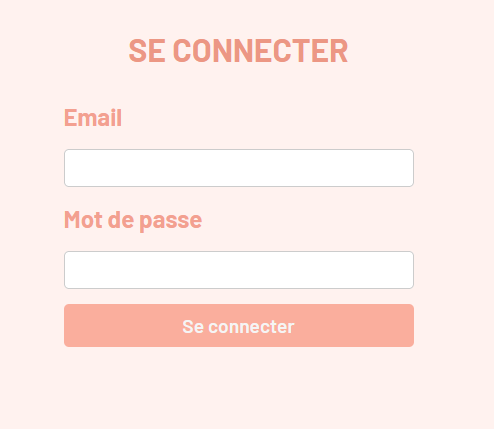
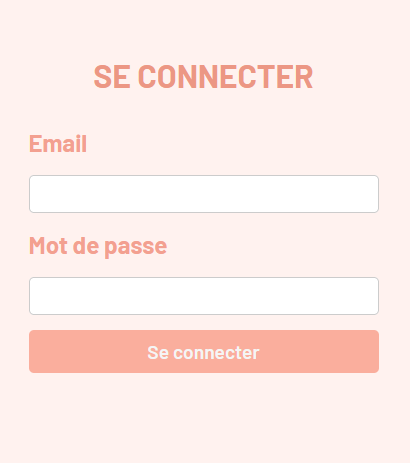
Mise a jour de la présentation

diff --git a/index.html b/index.html
@@ -21,65 +21,47 @@
 
             <!-- INTRODUCTION -->
             <section>
-                <h1>Présentation du Projet</h1>
+                <h2>Douceur de lune</h2>
                 <img class="img-presentation" src="img\Sans titre.png" alt="">
                 <aside class="notes">
+                    Intro :<br>
                     Devenir mère, ou être une mère récente, représente un changement majeur dans la vie d'une femme. En plus d'être une femme, on devient également une mère. Ce rôle s'accompagne de transformations physiques et mentales, de doutes et de peurs, mais aussi d'un sentiment de bonheur, de satisfaction et d'amour. Ces changements peuvent créer des tourbillons émotionnels difficiles à gérer, ce qui est tout à fait normal.
                     C'est dans ce contexte que ce projet a vu le jour : la création d'un site web destiné aux jeunes parents, principalement les mamans, mais pas seulement. 
                     Le site propose des cours de relaxation, de portage, des conseils et du bien-être, le tout dans un design moderne et accessible.
-                    Ce site a été créé principalement pour valider ma formation DWWM. Cependant, il a également pour objectif d'être utilisé par ma sœur dans le cadre de son activité professionnelle. Actuellement, elle utilise un site réalisé en CMS, mais nous avons convenu qu'un site "fait main" serait plus avantageux à bien des égards.
-                    C'est donc avec ces deux objectifs en tête que j'ai décidé de créer un site sur ce thème, qui répondrait aux exigences du REAC 1 tout en répondant aux besoins de ma sœur.
-                    J'ai beaucoup discuté avec elle pour comprendre ses besoins, le public visé, les habitudes des utilisateurs sur son site actuel, etc. Mon but était d'adapter au mieux ce projet pour elle, comme je le ferais pour un véritable client.
                 </aside>
             </section>  
 
             <!-- CONTEXTE -->
             <section>
-                <h2>Contexte</h2>
-                <img class="img-presentation" src="img\Sans titre.png" alt="">
-                <p>Le projet que j'ai développé est une application web qui vise à proposer des cours pour les jeunes parents, en particulier les mères, qu'elles attendent un enfant ou qu'elles soient mères depuis quelques mois.</p>
+                <h2>Pourquoi ce projet ?</h2>
+                <img class="img-presentation" src="img/questionnement.webp" alt="">
                 <aside class="notes">
-                    L'idée de ce projet est né de manière assez spontanée. Ma sœur possèdant un site web pour son activité professionnelle, avait créé son site via un CMS.
-                    Ayant toujours eu l'envie de l'améliorer et de le refaire entièrement par moi-même, j'ai décidé de transformer cette idée en projet concret. 
-                    J'ai ainsi choisi de développer un site que ma sœur pourrait également utiliser.
-                    Nous avons donc échangé régulièrement afin que je puisse cerner ses besoins et ses attentes, comme je l'aurais fait avec un véritable client.
-                    Par conséquent, j'ai également dû concevoir une interface d'administration. Mon objectif était de la rendre la plus simple possible pour permettre au client de réaliser lui-même les modifications nécessaires.
-                    En ce qui concerne le choix technologique, j'ai opté pour JavaScript pour le développement du calendrier. C'était une décision guidée par mon intérêt pour ce langage que j'ai cherché à apprendre en parallèle de la formation. De plus, je rencontrais des difficultés à obtenir ce que je voulais avec FullCalendar. 
-                    Ce défi s'est finalement révélé bénéfique et m'a poussé à me dépasser.
+                    Projet principalement pour l'examen DWWM mais aussi ma soeur (infirmière libérale, neo nat, réa bébé)<br>
+                    La cible est principalement les jeunes mères, mais aussi en couple ( même les pères seuls qui ont besoin de conseils )<br>
+                    Nous avons donc échangé régulièrement afin que je puisse cerner ses besoins et ses attentes, comme je l'aurais fait avec un véritable client.<br>
                     Pour conclure, ce projet a été une opportunité pour moi d'appliquer mes nouvelles compétences en développement et de me confronter à des problématiques réelles. Cela m'a permis de confirmer mon intérêt pour ce domaine et de renforcer ma détermination à poursuivre dans cette voie.
                 </aside>
             </section>
 
             <!-- TECHNO + LANGAGE -->
             <section>
-                <h2 class="test">Technologies Utilisées</h2>
-                <p>Pour développer ce projet, j'ai utilisé plusieurs technologies :</p>
-                <ul>
-                    <li class="fragment img"><img src="img\Framework-Symfony-removebg-preview.png" alt="">SYMFONY comme framework de développement</li>
-                        <aside class="notes">Note pour SYMFONY</aside>
-                    <li class="fragment img"><img src="img\npm-composer-cover-removebg-preview.png" alt="">COMPOSER et NPM comme gestionnaire de dépendance</li>
-                        <aside class="notes">Note pour COMPOSER</aside>
-                    <li class="fragment img minus-margin"><img src="img\1_MGcLJS1ZvMFcBA94PXn16Q.png" alt="">VSCODE comme éditeur de code</li>
-                        <aside class="notes">Note pour VSCODE</aside>
-            </section>
-
-            <section class="langage">
-                <h2>Ainsi que plusieurs langages utilisés</h2>
-                <ul>
-                    <li class="fragment img"><img src="img\php_mysql-removebg-preview.png" alt="">PHP - SQL pour la programmation côté serveur et intéragir avec la base de donnée</li>
-                        <aside class="notes">Note pour PHP - SQL</aside>
-                    <li class="fragment img minus-margin2"><img src="img\css3-html5-removebg-preview.png" alt="">HTML - CSS pour gérer la mise en page</li>
-                        <aside class="notes">Note pour HTML - CSS</aside>
-                    <li class="fragment img"><img src="img\JavaScript-Logo-removebg-preview.png" alt="">JavaScript pour la gestion de mon calendrier et rendre certaines pages plus dynamiques</li>
-                     <aside class="notes">Note pour JavaScript</aside>
-                </ul>
+                <h3 class="test">Technologies et langages utilisées</h3>
+                <!-- <p>Pour développer ce projet, j'ai utilisé plusieurs technologies :</p> -->
+                <div>
+                    <p class="fragment img"><img src="img/Framework-Symfony-removebg-preview.png" alt=""></p>
+                        <aside class="notes">Note pour SYMFONY <br> PHP - SQL pour la programmation côté serveur et intéragir avec la base de donnée</aside>
+                    <p class="fragment img"><img src="img/npm-composer-cover-removebg-preview.png" alt=""></p>
+                        <aside class="notes">Note pour COMPOSER <br> NPM</aside>
+                    <p class="fragment img minus-margin"><img src="img/html5-logo-best-web-design-psd-html-cms-development-ecommerce-6.png"></p>
+                        <aside class="notes">Note pour HTML <br> CSS <br> JS</aside>
+                </div>
             </section>
 
             <!-- ARCHITECTURE -->
             <section>
-                <h2>Architecture de l'Application</h2>
-                <img src="img/MVC.png" alt="">
-                <p>Le modèle MVC, ou Model-View-Controller, est un motif d'architecture logicielle utilisé pour développer des applications web. Il divise une application en trois composants connectés entre eux.</p>
+                <h3>Architecture de l'Application</h3>
+                <img class="img-mvc" src="img/MVC.png" alt="">
+                <aside class="notes">Le modèle MVC, ou Model-View-Controller, est un motif d'architecture logicielle utilisé pour développer des applications web. Il divise une application en trois composants connectés entre eux.</aside>
                 <ul>
                     <li class="fragment">Contrôleur (Controller)</li>
                         <aside class="notes"><strong>Le contrôleur</strong> agit comme un intermédiaire entre le modèle et la vue. Il traite les entrées de l'utilisateur, interagit avec le modèle pour récupérer ou stocker des données, et met à jour la vue en conséquence. Dans une application web, le contrôleur est généralement responsable de gérer les requêtes HTTP, de manipuler les données du formulaire, et de renvoyer les réponses HTTP. <br><br> </aside>
@@ -92,16 +74,16 @@
           
             <!-- FONCTIONNALTES -->
             <section>
-                <h2>Fonctionnalités Clés</h2>
+                <h3>Fonctionnalités Clés</h3>
                 <p>Un système d'inscription et de connexion</p>
-                <ul>
-                    <li class="fragment"><img src="img/connexion.png" alt="">Inscription</li>
-                    <li class="fragment"><img src="img/subscription.png" alt="">Subscription</li>
-                </ul>
+                <div>
+                    <p class="fragment"><img src="img/subscription.png" alt=""> <img src="img/connexion.png" alt=""></p>
+                   
+                </div>
             </section>
 
             <section>
-                <h2>Fonctionnalités Clés</h2>
+                <h3>Fonctionnalités Clés</h3>
                 <p>La possibilité de supprimer ou modifier son profil</p>
                 <ul>
                     <li class="fragment"><img src="img/subscription.png" alt="">modification/supression dans le profil</li>
@@ -109,42 +91,42 @@
             </section>
 
             <section>
-                <h2>Fonctionnalités Clés</h2>
+                <h3>Fonctionnalités Clés</h3>
                 <p>Un calendrier de réservation</p>
                         <ul>
                             <li class="fragment"><img src="img/calendrier-jour.png" alt="">Section Mois/Jours</li>
-                            <li class="fragment"><img src="img/calendrier-horaires.png" alt="">Section horaires</li>
-                            <li class="fragment"><img src="img/calendrier-reservation-boutton.png" alt="">Section réservation</li>
+                            <li class="fragment"><img src="img/calendrier-horaires.png" alt="">Section Horaires</li>
+                            <li class="fragment"><img src="img/calendrier-reservation-boutton.png" alt="">Section Réservation</li>
                         </ul>
             </section>
 
             <section>
-                <h2>Fonctionnalités Clés</h2>
-                <p>La possibilité de payé via Stripe</p>
+                <h3>Fonctionnalités Clés</h3>
+                <p>La possibilité de payer via Stripe</p>
                 <li class=""><img src="img/Stripe.png" alt="">Méthode de payment via Stripe</li>
             </section>
 
             <section>
-                <h2>Fonctionnalités Clés</h2>
+                <h3>Fonctionnalités Clés</h3>
                 <p>Une interface admin</p>
                 <li class=""><img src="img/admin-dashboard.png" alt="">Interface administrateur via EasyAdmin</li>
             </section>
             
             <!-- DEMO -->
             <section>
-                <h2>Démo</h2>
+                <h3>Démo</h3>
                 <p>Maintenant que je vous ai présenté le projet en détail, voici une démonstration de son utilisation en situation réel.</p>
             </section>
 
             <!-- DEFIS ET SOLUTIONS -->
             <section>
-                <h2>Challenges et Solutions</h2>
+                <h3>Challenges et Solutions</h3>
                 <p>Calendrier imaginé en FullCalendar et transformé en full JavaScript</p>
             </section>
 
             <!-- AMELIORATIONS -->
             <section>
-                <h2>Améliorations Futures</h2>
+                <h3>Améliorations Futures</h3>
                 <p>Parler des améliorations ou des fonctionnalités que je prévoie d'ajouter.</p>
                 <ul>
                     <li class="fragment">Court terme : Paypal ? Captcha ?</li>
@@ -155,16 +137,15 @@
 
             <!-- CONCLUSION -->
             <section>
-                <h2>Conclusion</h2>
+                <h3>Conclusion</h3>
                 <p>Résumer des points clés de la présentation + remerciements</p>
             </section>
 
             <!-- Exemple pour le code-->
             <section>
-
                 <section data-markdown>
-                    
                     <textarea data-template>
+
                             ## Slide 1
 
                             Exemple de code js :
@@ -190,9 +171,7 @@
                             ```
 
                     </textarea>
-
                 </section>
-
             </section>
             
         </div>

diff --git a/css/style.css b/css/style.css
@@ -1,24 +1,22 @@
-img {
-    width: 235px;
-    height: 135px;
+ul{
+  list-style: none !important;
 }
 
-.img-presentation{
-    width:  50%;
+img {
+    width: 300px;
     height: auto;
 }
 
-/* .fragment {
-    display: flex;
-    justify-content: center;
-    text-align: center;
-    align-items: center;
-} */
-
-.minus-margin{
-    margin-left: -74px;
+.img-mvc {
+    width: 500px;
+    height: auto;
 }
 
-.minus-margin2 {
-    margin-left: -12px;
+.img-presentation{
+    width:  40%;
+    height: auto;
+}
+
+.slides {
+  
 }
